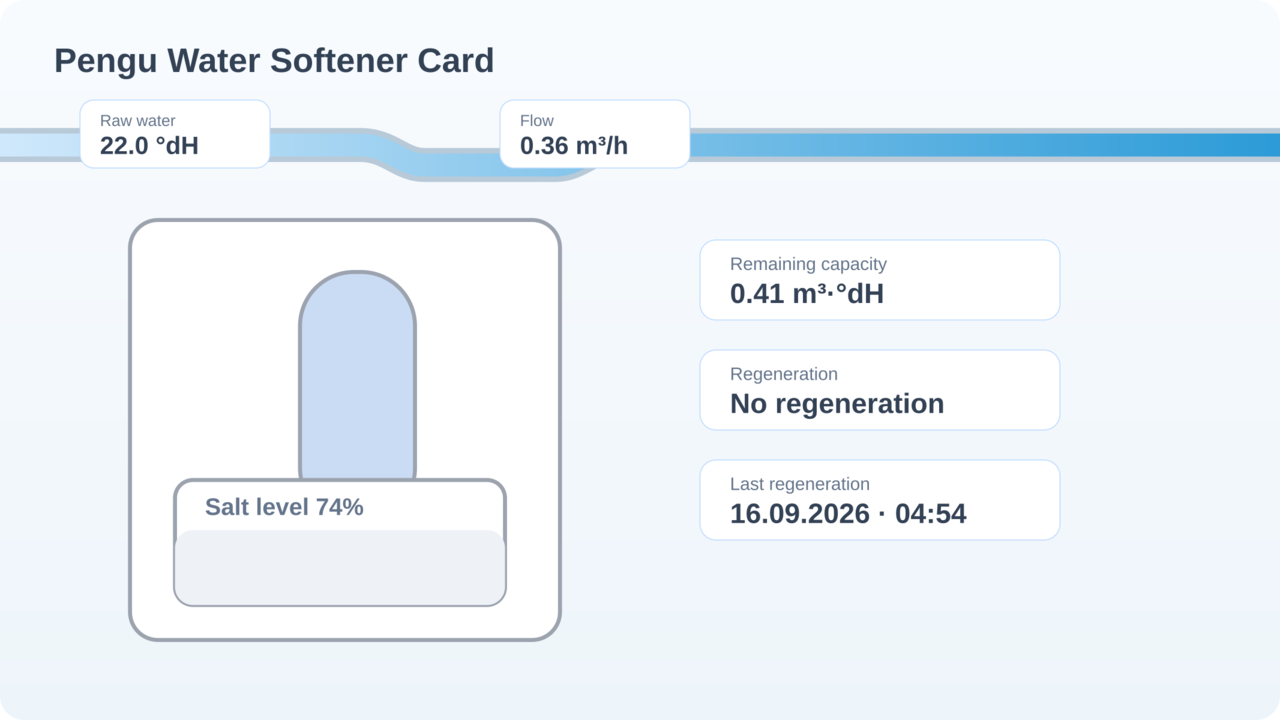
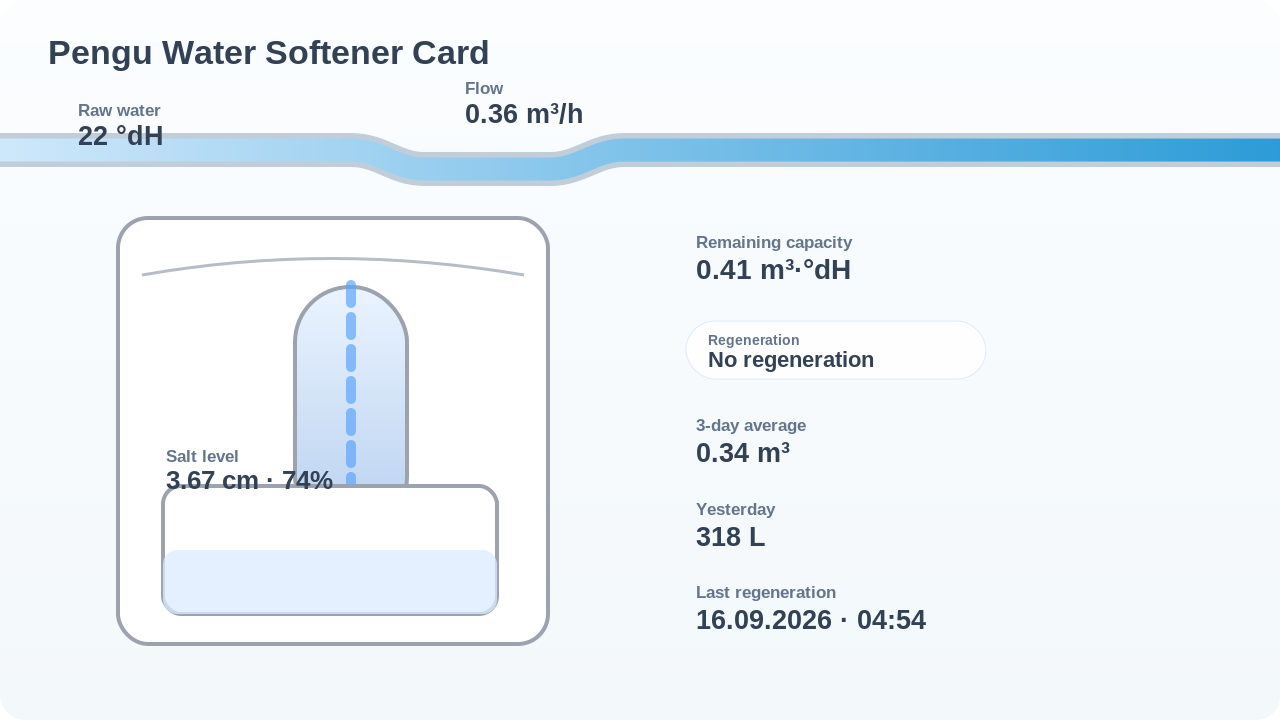
Add files via upload

diff --git a/dist/pengu-water-softener-card.js b/dist/pengu-water-softener-card.js
@@ -1,4 +1,4 @@
-const PENGU_WATER_VERSION = "0.1.1";
+const PENGU_WATER_VERSION = "0.1.2";
 
 const T = {
   en: {
@@ -24,6 +24,11 @@ const T = {
     style_modern: "Clean modern",
     style_technical: "Technical",
     style_compact: "Compact",
+    value_style: "Value display",
+    value_style_text: "Floating text",
+    value_style_compact: "Compact badge",
+    value_style_card: "Card",
+    value_style_hint: "Floating text uses only the space needed by the label and value. Compact badge adds a subtle background; Card keeps the classic boxed layout.",
     animation_mode: "Flow animation",
     animation_off: "Off",
     animation_subtle: "Subtle",
@@ -136,6 +141,11 @@ const T = {
     style_modern: "Modern",
     style_technical: "Technisch",
     style_compact: "Kompakt",
+    value_style: "Wertdarstellung",
+    value_style_text: "Schwebender Text",
+    value_style_compact: "Kompakt",
+    value_style_card: "Kachel",
+    value_style_hint: "Schwebender Text belegt nur den tatsächlich benötigten Platz. Kompakt ergänzt einen dezenten Hintergrund; Kachel behält die klassische Box-Darstellung.",
     animation_mode: "Durchflussanimation",
     animation_off: "Aus",
     animation_subtle: "Dezent",
@@ -367,6 +377,7 @@ function normalizeConfig(config = {}) {
     language: "auto",
     integration_profile: "auto",
     visual_style: "modern",
+    value_style: "text",
     animation_mode: "subtle",
     tap_action: "more-info",
     salt_level_mode: "auto",
@@ -539,7 +550,9 @@ function pill(config, hass, lang, def, customValue = null, tone = "blue") {
   const value = customValue ?? formatEntity(hass, entityId, lang);
   if (!value) return "";
   const label = getLabel(config, lang, key);
-  return `<div class="metric tone-${tone}" data-entity-id="${esc(entityId)}" style="left:${p.x}%;top:${p.y}%">
+  const valueStyle = ["text","compact","card"].includes(config.value_style) ? config.value_style : "text";
+  const statusClass = ["regeneration","last_error","manual_regeneration"].includes(key) ? " status-metric" : "";
+  return `<div class="metric value-${valueStyle} tone-${tone}${statusClass}" data-entity-id="${esc(entityId)}" style="left:${p.x}%;top:${p.y}%">
     <span class="metric-label">${esc(label)}</span><span class="metric-value">${esc(value)}</span>
   </div>`;
 }
@@ -554,10 +567,18 @@ function styles() {
     .canvas{position:relative;width:100%;aspect-ratio:10/7.2;min-height:360px;overflow:hidden;border-radius:16px;background:linear-gradient(180deg,rgba(248,250,252,.66),rgba(255,255,255,.1));}
     .diagram{position:absolute;inset:0;width:100%;height:100%}
     .overlay{position:absolute;inset:0;pointer-events:none}
-    .metric{position:absolute;transform:translate(-50%,-50%);display:flex;flex-direction:column;min-width:112px;max-width:210px;padding:7px 10px;border:1px solid rgba(148,163,184,.32);border-radius:11px;background:color-mix(in srgb,var(--card-background-color,#fff) 92%,transparent);box-shadow:0 3px 10px rgba(15,23,42,.08);backdrop-filter:blur(5px);pointer-events:auto;cursor:pointer;z-index:4}
-    .metric-label{font-size:.68rem;font-weight:650;color:var(--secondary-text-color,#64748b);white-space:nowrap;overflow:hidden;text-overflow:ellipsis}
-    .metric-value{font-size:.96rem;font-weight:760;line-height:1.28;white-space:nowrap;overflow:hidden;text-overflow:ellipsis}
-    .tone-blue{border-color:rgba(59,130,246,.26)} .tone-green{border-color:rgba(34,197,94,.32)} .tone-amber{border-color:rgba(245,158,11,.38)} .tone-red{border-color:rgba(239,68,68,.38)} .tone-gray{border-color:rgba(100,116,139,.32)}
+    .metric{position:absolute;transform:translate(-50%,-50%);display:flex;flex-direction:column;max-width:230px;pointer-events:auto;cursor:pointer;z-index:4;box-sizing:border-box}
+    .metric-label{font-size:.68rem;font-weight:650;color:var(--secondary-text-color,#64748b);white-space:nowrap;line-height:1.15}
+    .metric-value{font-size:.96rem;font-weight:760;line-height:1.24;white-space:nowrap;color:var(--primary-text-color,#334155)}
+    .value-text{padding:2px 3px;border:0;background:transparent;box-shadow:none;backdrop-filter:none}
+    .value-text .metric-label,.value-text .metric-value{text-shadow:0 1px 2px color-mix(in srgb,var(--card-background-color,#fff) 88%,transparent),0 0 5px color-mix(in srgb,var(--card-background-color,#fff) 70%,transparent)}
+    .value-compact{padding:5px 8px;border:1px solid rgba(148,163,184,.18);border-radius:8px;background:color-mix(in srgb,var(--card-background-color,#fff) 78%,transparent);box-shadow:0 2px 7px rgba(15,23,42,.045);backdrop-filter:blur(3px)}
+    .value-card{min-width:112px;padding:7px 10px;border:1px solid rgba(148,163,184,.32);border-radius:11px;background:color-mix(in srgb,var(--card-background-color,#fff) 92%,transparent);box-shadow:0 3px 10px rgba(15,23,42,.08);backdrop-filter:blur(5px)}
+    .value-text.status-metric{padding:4px 7px;border-radius:999px;background:color-mix(in srgb,var(--card-background-color,#fff) 72%,transparent);box-shadow:0 2px 7px rgba(15,23,42,.04);backdrop-filter:blur(3px)}
+    .value-text.status-metric .metric-label{font-size:.62rem}
+    .tone-red .metric-value{color:var(--error-color,#dc2626)}
+    .tone-amber .metric-value{color:#b45309}
+    .value-compact.tone-blue,.value-card.tone-blue{border-color:rgba(59,130,246,.24)} .value-compact.tone-green,.value-card.tone-green{border-color:rgba(34,197,94,.30)} .value-compact.tone-amber,.value-card.tone-amber{border-color:rgba(245,158,11,.34)} .value-compact.tone-red,.value-card.tone-red{border-color:rgba(239,68,68,.35)} .value-compact.tone-gray,.value-card.tone-gray{border-color:rgba(100,116,139,.28)}
     .tap-none .metric{cursor:default}
     .empty-note{position:absolute;left:50%;bottom:12px;transform:translateX(-50%);padding:7px 12px;border:1px dashed rgba(148,163,184,.5);border-radius:999px;background:rgba(255,255,255,.88);color:#64748b;font-size:.74rem;white-space:nowrap}
     .pipe{fill:none;stroke:#d7e3ef;stroke-width:22;stroke-linecap:round;stroke-linejoin:round}
@@ -587,9 +608,10 @@ function styles() {
     .status-ring-bg{fill:none;stroke:#e2e8f0;stroke-width:10}
     .status-ring{fill:none;stroke:#3b82f6;stroke-width:10;stroke-linecap:round;transform:rotate(-90deg);transform-origin:750px 446px}
     .style-technical .canvas{background:transparent;border:1px solid rgba(148,163,184,.28);border-radius:10px}
-    .style-technical .metric{border-radius:6px;box-shadow:none;background:var(--card-background-color,#fff)}
-    .style-compact .header{font-size:1rem;padding-top:10px}.style-compact .shell{padding:4px 7px 9px}.style-compact .canvas{min-height:310px}.style-compact .metric{padding:5px 8px;min-width:100px}.style-compact .metric-value{font-size:.86rem}.style-compact .metric-label{font-size:.61rem}
-    @media(max-width:520px){.canvas{min-height:420px;aspect-ratio:8/7.6}.metric{min-width:92px;max-width:150px;padding:6px 8px}.metric-label{font-size:.61rem}.metric-value{font-size:.82rem}}
+    .style-technical .value-card{border-radius:6px;box-shadow:none;background:var(--card-background-color,#fff)}
+    .style-technical .value-compact{border-radius:4px;box-shadow:none}
+    .style-compact .header{font-size:1rem;padding-top:10px}.style-compact .shell{padding:4px 7px 9px}.style-compact .canvas{min-height:310px}.style-compact .metric-value{font-size:.86rem}.style-compact .metric-label{font-size:.61rem}.style-compact .value-card{padding:5px 8px;min-width:100px}.style-compact .value-compact{padding:4px 6px}
+    @media(max-width:520px){.canvas{min-height:420px;aspect-ratio:8/7.6}.metric{max-width:160px}.value-card{min-width:92px;padding:6px 8px}.value-compact{padding:4px 6px}.metric-label{font-size:.61rem}.metric-value{font-size:.82rem}}
   `;
 }
 
@@ -696,7 +718,7 @@ class PenguWaterSoftenerCard extends HTMLElement {
   }
   static getConfigElement() { return document.createElement("pengu-water-softener-card-editor"); }
   static getStubConfig() {
-    return { language:"auto", integration_profile:"auto", visual_style:"modern", animation_mode:"subtle", tap_action:"more-info" };
+    return { language:"auto", integration_profile:"auto", visual_style:"modern", value_style:"text", animation_mode:"subtle", tap_action:"more-info" };
   }
   setConfig(config) { if (!config) throw new Error("Invalid configuration"); this._config = normalizeConfig(config); this._render(); }
   set hass(hass) { this._hass = hass; this._render(); }
@@ -748,6 +770,7 @@ class PenguWaterSoftenerCardEditor extends HTMLElement {
 
       <div class="panel"><div class="panel-title">${esc(tr(lang,"appearance"))}</div><div class="grid">
         <div class="field"><label>${esc(tr(lang,"visual_style"))}</label><select data-key="visual_style"><option value="modern" ${this._config.visual_style==="modern"?"selected":""}>${esc(tr(lang,"style_modern"))}</option><option value="technical" ${this._config.visual_style==="technical"?"selected":""}>${esc(tr(lang,"style_technical"))}</option><option value="compact" ${this._config.visual_style==="compact"?"selected":""}>${esc(tr(lang,"style_compact"))}</option></select></div>
+        <div class="field"><label>${esc(tr(lang,"value_style"))}</label><select data-key="value_style"><option value="text" ${this._config.value_style==="text"?"selected":""}>${esc(tr(lang,"value_style_text"))}</option><option value="compact" ${this._config.value_style==="compact"?"selected":""}>${esc(tr(lang,"value_style_compact"))}</option><option value="card" ${this._config.value_style==="card"?"selected":""}>${esc(tr(lang,"value_style_card"))}</option></select><div class="mini-hint">${esc(tr(lang,"value_style_hint"))}</div></div>
         <div class="field"><label>${esc(tr(lang,"animation_mode"))}</label><select data-key="animation_mode"><option value="off" ${this._config.animation_mode==="off"?"selected":""}>${esc(tr(lang,"animation_off"))}</option><option value="subtle" ${this._config.animation_mode==="subtle"?"selected":""}>${esc(tr(lang,"animation_subtle"))}</option><option value="normal" ${this._config.animation_mode==="normal"?"selected":""}>${esc(tr(lang,"animation_normal"))}</option></select></div>
         <div class="field"><label>${esc(tr(lang,"tap_action"))}</label><select data-key="tap_action"><option value="more-info" ${this._config.tap_action!=="none"?"selected":""}>${esc(tr(lang,"tap_more_info"))}</option><option value="none" ${this._config.tap_action==="none"?"selected":""}>${esc(tr(lang,"tap_none"))}</option></select></div>
       </div></div>
@@ -810,7 +833,7 @@ class PenguWaterSoftenerCardEditor extends HTMLElement {
     // the picker while its value-changed event is still being handled can cause
     // Home Assistant to restore the previous value. Only refresh the drag area.
     if (key.endsWith("_entity")) this._refreshPositions();
-    else if(["language","integration_profile","visual_style","salt_level_mode","salt_level_max_unit"].includes(key)) this._render();
+    else if(["language","integration_profile","visual_style","value_style","salt_level_mode","salt_level_max_unit"].includes(key)) this._render();
   }
   _refreshPositions(){
     const canvas=this.shadowRoot?.getElementById("positionCanvas");
@@ -847,7 +870,7 @@ if (!window.customCards.some((c)=>c.type==="pengu-water-softener-card")) {
     type:"pengu-water-softener-card",
     name:"Pengu Water Softener Card",
     preview:true,
-    description:"Visual water-softener card with flow, hardness, salt level, capacity and regeneration animation.",
+    description:"Visual water-softener card with floating values, flow, hardness, salt level, capacity and regeneration animation.",
     documentationURL:"https://github.com/Borderlane-HA/Pengu-Water-Softener-Home-Assistant-Card",
     getEntitySuggestion:(hass,entityId)=>{
       const s=hass?.states?.[entityId]; if(!s)return null;

diff --git a/pengu-water-softener-card.js b/pengu-water-softener-card.js
@@ -1,4 +1,4 @@
-const PENGU_WATER_VERSION = "0.1.1";
+const PENGU_WATER_VERSION = "0.1.2";
 
 const T = {
   en: {
@@ -24,6 +24,11 @@ const T = {
     style_modern: "Clean modern",
     style_technical: "Technical",
     style_compact: "Compact",
+    value_style: "Value display",
+    value_style_text: "Floating text",
+    value_style_compact: "Compact badge",
+    value_style_card: "Card",
+    value_style_hint: "Floating text uses only the space needed by the label and value. Compact badge adds a subtle background; Card keeps the classic boxed layout.",
     animation_mode: "Flow animation",
     animation_off: "Off",
     animation_subtle: "Subtle",
@@ -136,6 +141,11 @@ const T = {
     style_modern: "Modern",
     style_technical: "Technisch",
     style_compact: "Kompakt",
+    value_style: "Wertdarstellung",
+    value_style_text: "Schwebender Text",
+    value_style_compact: "Kompakt",
+    value_style_card: "Kachel",
+    value_style_hint: "Schwebender Text belegt nur den tatsächlich benötigten Platz. Kompakt ergänzt einen dezenten Hintergrund; Kachel behält die klassische Box-Darstellung.",
     animation_mode: "Durchflussanimation",
     animation_off: "Aus",
     animation_subtle: "Dezent",
@@ -367,6 +377,7 @@ function normalizeConfig(config = {}) {
     language: "auto",
     integration_profile: "auto",
     visual_style: "modern",
+    value_style: "text",
     animation_mode: "subtle",
     tap_action: "more-info",
     salt_level_mode: "auto",
@@ -539,7 +550,9 @@ function pill(config, hass, lang, def, customValue = null, tone = "blue") {
   const value = customValue ?? formatEntity(hass, entityId, lang);
   if (!value) return "";
   const label = getLabel(config, lang, key);
-  return `<div class="metric tone-${tone}" data-entity-id="${esc(entityId)}" style="left:${p.x}%;top:${p.y}%">
+  const valueStyle = ["text","compact","card"].includes(config.value_style) ? config.value_style : "text";
+  const statusClass = ["regeneration","last_error","manual_regeneration"].includes(key) ? " status-metric" : "";
+  return `<div class="metric value-${valueStyle} tone-${tone}${statusClass}" data-entity-id="${esc(entityId)}" style="left:${p.x}%;top:${p.y}%">
     <span class="metric-label">${esc(label)}</span><span class="metric-value">${esc(value)}</span>
   </div>`;
 }
@@ -554,10 +567,18 @@ function styles() {
     .canvas{position:relative;width:100%;aspect-ratio:10/7.2;min-height:360px;overflow:hidden;border-radius:16px;background:linear-gradient(180deg,rgba(248,250,252,.66),rgba(255,255,255,.1));}
     .diagram{position:absolute;inset:0;width:100%;height:100%}
     .overlay{position:absolute;inset:0;pointer-events:none}
-    .metric{position:absolute;transform:translate(-50%,-50%);display:flex;flex-direction:column;min-width:112px;max-width:210px;padding:7px 10px;border:1px solid rgba(148,163,184,.32);border-radius:11px;background:color-mix(in srgb,var(--card-background-color,#fff) 92%,transparent);box-shadow:0 3px 10px rgba(15,23,42,.08);backdrop-filter:blur(5px);pointer-events:auto;cursor:pointer;z-index:4}
-    .metric-label{font-size:.68rem;font-weight:650;color:var(--secondary-text-color,#64748b);white-space:nowrap;overflow:hidden;text-overflow:ellipsis}
-    .metric-value{font-size:.96rem;font-weight:760;line-height:1.28;white-space:nowrap;overflow:hidden;text-overflow:ellipsis}
-    .tone-blue{border-color:rgba(59,130,246,.26)} .tone-green{border-color:rgba(34,197,94,.32)} .tone-amber{border-color:rgba(245,158,11,.38)} .tone-red{border-color:rgba(239,68,68,.38)} .tone-gray{border-color:rgba(100,116,139,.32)}
+    .metric{position:absolute;transform:translate(-50%,-50%);display:flex;flex-direction:column;max-width:230px;pointer-events:auto;cursor:pointer;z-index:4;box-sizing:border-box}
+    .metric-label{font-size:.68rem;font-weight:650;color:var(--secondary-text-color,#64748b);white-space:nowrap;line-height:1.15}
+    .metric-value{font-size:.96rem;font-weight:760;line-height:1.24;white-space:nowrap;color:var(--primary-text-color,#334155)}
+    .value-text{padding:2px 3px;border:0;background:transparent;box-shadow:none;backdrop-filter:none}
+    .value-text .metric-label,.value-text .metric-value{text-shadow:0 1px 2px color-mix(in srgb,var(--card-background-color,#fff) 88%,transparent),0 0 5px color-mix(in srgb,var(--card-background-color,#fff) 70%,transparent)}
+    .value-compact{padding:5px 8px;border:1px solid rgba(148,163,184,.18);border-radius:8px;background:color-mix(in srgb,var(--card-background-color,#fff) 78%,transparent);box-shadow:0 2px 7px rgba(15,23,42,.045);backdrop-filter:blur(3px)}
+    .value-card{min-width:112px;padding:7px 10px;border:1px solid rgba(148,163,184,.32);border-radius:11px;background:color-mix(in srgb,var(--card-background-color,#fff) 92%,transparent);box-shadow:0 3px 10px rgba(15,23,42,.08);backdrop-filter:blur(5px)}
+    .value-text.status-metric{padding:4px 7px;border-radius:999px;background:color-mix(in srgb,var(--card-background-color,#fff) 72%,transparent);box-shadow:0 2px 7px rgba(15,23,42,.04);backdrop-filter:blur(3px)}
+    .value-text.status-metric .metric-label{font-size:.62rem}
+    .tone-red .metric-value{color:var(--error-color,#dc2626)}
+    .tone-amber .metric-value{color:#b45309}
+    .value-compact.tone-blue,.value-card.tone-blue{border-color:rgba(59,130,246,.24)} .value-compact.tone-green,.value-card.tone-green{border-color:rgba(34,197,94,.30)} .value-compact.tone-amber,.value-card.tone-amber{border-color:rgba(245,158,11,.34)} .value-compact.tone-red,.value-card.tone-red{border-color:rgba(239,68,68,.35)} .value-compact.tone-gray,.value-card.tone-gray{border-color:rgba(100,116,139,.28)}
     .tap-none .metric{cursor:default}
     .empty-note{position:absolute;left:50%;bottom:12px;transform:translateX(-50%);padding:7px 12px;border:1px dashed rgba(148,163,184,.5);border-radius:999px;background:rgba(255,255,255,.88);color:#64748b;font-size:.74rem;white-space:nowrap}
     .pipe{fill:none;stroke:#d7e3ef;stroke-width:22;stroke-linecap:round;stroke-linejoin:round}
@@ -587,9 +608,10 @@ function styles() {
     .status-ring-bg{fill:none;stroke:#e2e8f0;stroke-width:10}
     .status-ring{fill:none;stroke:#3b82f6;stroke-width:10;stroke-linecap:round;transform:rotate(-90deg);transform-origin:750px 446px}
     .style-technical .canvas{background:transparent;border:1px solid rgba(148,163,184,.28);border-radius:10px}
-    .style-technical .metric{border-radius:6px;box-shadow:none;background:var(--card-background-color,#fff)}
-    .style-compact .header{font-size:1rem;padding-top:10px}.style-compact .shell{padding:4px 7px 9px}.style-compact .canvas{min-height:310px}.style-compact .metric{padding:5px 8px;min-width:100px}.style-compact .metric-value{font-size:.86rem}.style-compact .metric-label{font-size:.61rem}
-    @media(max-width:520px){.canvas{min-height:420px;aspect-ratio:8/7.6}.metric{min-width:92px;max-width:150px;padding:6px 8px}.metric-label{font-size:.61rem}.metric-value{font-size:.82rem}}
+    .style-technical .value-card{border-radius:6px;box-shadow:none;background:var(--card-background-color,#fff)}
+    .style-technical .value-compact{border-radius:4px;box-shadow:none}
+    .style-compact .header{font-size:1rem;padding-top:10px}.style-compact .shell{padding:4px 7px 9px}.style-compact .canvas{min-height:310px}.style-compact .metric-value{font-size:.86rem}.style-compact .metric-label{font-size:.61rem}.style-compact .value-card{padding:5px 8px;min-width:100px}.style-compact .value-compact{padding:4px 6px}
+    @media(max-width:520px){.canvas{min-height:420px;aspect-ratio:8/7.6}.metric{max-width:160px}.value-card{min-width:92px;padding:6px 8px}.value-compact{padding:4px 6px}.metric-label{font-size:.61rem}.metric-value{font-size:.82rem}}
   `;
 }
 
@@ -696,7 +718,7 @@ class PenguWaterSoftenerCard extends HTMLElement {
   }
   static getConfigElement() { return document.createElement("pengu-water-softener-card-editor"); }
   static getStubConfig() {
-    return { language:"auto", integration_profile:"auto", visual_style:"modern", animation_mode:"subtle", tap_action:"more-info" };
+    return { language:"auto", integration_profile:"auto", visual_style:"modern", value_style:"text", animation_mode:"subtle", tap_action:"more-info" };
   }
   setConfig(config) { if (!config) throw new Error("Invalid configuration"); this._config = normalizeConfig(config); this._render(); }
   set hass(hass) { this._hass = hass; this._render(); }
@@ -748,6 +770,7 @@ class PenguWaterSoftenerCardEditor extends HTMLElement {
 
       <div class="panel"><div class="panel-title">${esc(tr(lang,"appearance"))}</div><div class="grid">
         <div class="field"><label>${esc(tr(lang,"visual_style"))}</label><select data-key="visual_style"><option value="modern" ${this._config.visual_style==="modern"?"selected":""}>${esc(tr(lang,"style_modern"))}</option><option value="technical" ${this._config.visual_style==="technical"?"selected":""}>${esc(tr(lang,"style_technical"))}</option><option value="compact" ${this._config.visual_style==="compact"?"selected":""}>${esc(tr(lang,"style_compact"))}</option></select></div>
+        <div class="field"><label>${esc(tr(lang,"value_style"))}</label><select data-key="value_style"><option value="text" ${this._config.value_style==="text"?"selected":""}>${esc(tr(lang,"value_style_text"))}</option><option value="compact" ${this._config.value_style==="compact"?"selected":""}>${esc(tr(lang,"value_style_compact"))}</option><option value="card" ${this._config.value_style==="card"?"selected":""}>${esc(tr(lang,"value_style_card"))}</option></select><div class="mini-hint">${esc(tr(lang,"value_style_hint"))}</div></div>
         <div class="field"><label>${esc(tr(lang,"animation_mode"))}</label><select data-key="animation_mode"><option value="off" ${this._config.animation_mode==="off"?"selected":""}>${esc(tr(lang,"animation_off"))}</option><option value="subtle" ${this._config.animation_mode==="subtle"?"selected":""}>${esc(tr(lang,"animation_subtle"))}</option><option value="normal" ${this._config.animation_mode==="normal"?"selected":""}>${esc(tr(lang,"animation_normal"))}</option></select></div>
         <div class="field"><label>${esc(tr(lang,"tap_action"))}</label><select data-key="tap_action"><option value="more-info" ${this._config.tap_action!=="none"?"selected":""}>${esc(tr(lang,"tap_more_info"))}</option><option value="none" ${this._config.tap_action==="none"?"selected":""}>${esc(tr(lang,"tap_none"))}</option></select></div>
       </div></div>
@@ -810,7 +833,7 @@ class PenguWaterSoftenerCardEditor extends HTMLElement {
     // the picker while its value-changed event is still being handled can cause
     // Home Assistant to restore the previous value. Only refresh the drag area.
     if (key.endsWith("_entity")) this._refreshPositions();
-    else if(["language","integration_profile","visual_style","salt_level_mode","salt_level_max_unit"].includes(key)) this._render();
+    else if(["language","integration_profile","visual_style","value_style","salt_level_mode","salt_level_max_unit"].includes(key)) this._render();
   }
   _refreshPositions(){
     const canvas=this.shadowRoot?.getElementById("positionCanvas");
@@ -847,7 +870,7 @@ if (!window.customCards.some((c)=>c.type==="pengu-water-softener-card")) {
     type:"pengu-water-softener-card",
     name:"Pengu Water Softener Card",
     preview:true,
-    description:"Visual water-softener card with flow, hardness, salt level, capacity and regeneration animation.",
+    description:"Visual water-softener card with floating values, flow, hardness, salt level, capacity and regeneration animation.",
     documentationURL:"https://github.com/Borderlane-HA/Pengu-Water-Softener-Home-Assistant-Card",
     getEntitySuggestion:(hass,entityId)=>{
       const s=hass?.states?.[entityId]; if(!s)return null;

diff --git a/README.md b/README.md
@@ -1,16 +1,10 @@
 # Pengu Water Softener Card
 
-<p align="center">
-  <img src="https://raw.githubusercontent.com/Borderlane-HA/Pengu-Water-Softener-Home-Assistant-Card/main/assets/pengu-logo.png" alt="Pengu Water Softener Card" width="420">
-</p>
+![Pengu Water Softener Card](https://raw.githubusercontent.com/Borderlane-HA/Pengu-Water-Softener-Home-Assistant-Card/refs/heads/main/assets/pengu-logo.png)
 
 A stylish and configurable **Home Assistant dashboard card for water softeners**. It shows only the values you actually configure, supports animated flow and regeneration states, and lets you position values directly in the visual editor via drag & drop.
 
-<p align="center">
-  <img src="https://raw.githubusercontent.com/Borderlane-HA/Pengu-Water-Softener-Home-Assistant-Card/main/screenshots/preview.png" alt="Pengu Water Softener Card preview" width="900">
-</p>
-
-> **Current version:** 0.1.1
+![Pengu Water Softener Card preview](https://raw.githubusercontent.com/Borderlane-HA/Pengu-Water-Softener-Home-Assistant-Card/refs/heads/main/screenshots/preview.png)
 
 ## Highlights
 
@@ -31,6 +25,22 @@ A stylish and configurable **Home Assistant dashboard card for water softeners**
 - German / English automatically follows the Home Assistant language
 - More-info dialog on configured values
 
+## Value display modes
+
+The value overlays can be changed in the visual editor:
+
+- **Floating text** — default; no box, no fixed minimum width, best for free positioning around the schematic
+- **Compact badge** — subtle translucent background with very small padding
+- **Card** — classic boxed layout from the first releases
+
+Normal measurements use floating text by default. Status values such as regeneration and errors keep a small, subtle status background so they remain easy to recognize.
+
+Existing configurations from older versions automatically use the new **Floating text** mode unless `value_style` is explicitly set.
+
+```yaml
+value_style: text     # text | compact | card
+```
+
 ## Integration profiles
 
 ### Automatic / generic
@@ -39,11 +49,9 @@ Works with any Home Assistant integration that exposes water-softener values as 
 
 ### Grünbeck softliQ SC — `tizianodeg/gruenbeck_softliQ_SC`
 
-The dedicated Grünbeck profile is optimized for the local Home Assistant integration:
+The dedicated Grünbeck profile is optimized for the [tizianodeg/gruenbeck_softliQ_SC Home Assistant integration](https://github.com/tizianodeg/gruenbeck_softliQ_SC).
 
-https://github.com/tizianodeg/gruenbeck_softliQ_SC
-
-The profile recognizes the common softliQ SC entities and regeneration states and can **auto-assign detected Grünbeck entities** from the card editor. Detection happens entirely from the entities already present in Home Assistant; the card does not create additional requests to the water softener.
+The profile recognizes common softliQ SC entities and regeneration states and can **auto-assign detected Grünbeck entities** from the card editor. Detection happens entirely from the entities already present in Home Assistant; the card does not create additional requests to the water softener.
 
 Typical supported values include:
 
@@ -120,6 +128,7 @@ type: custom:pengu-water-softener-card
 title: Enthärtungsanlage
 language: auto
 integration_profile: gruenbeck_softliq
+value_style: text
 flow_entity: sensor.softliq_sc18_aktueller_durchfluss
 raw_hardness_entity: sensor.softliq_sc18_rohwasserharte
 remaining_capacity_entity: sensor.softliq_sc18_restkapazitat
@@ -134,11 +143,11 @@ When **Grünbeck softliQ SC (tizianodeg)** is selected as the integration profil
 
 It scans the Home Assistant entities already loaded in the browser and fills matching empty fields. Existing manual assignments are never overwritten. After auto-assignment, remove any values you do not want to display and position the remaining values with drag & drop.
 
-## Entity picker fix in 0.1.1
+## Entity picker handling
 
-Version 0.1.1 changes the editor so selecting an entity no longer rebuilds the complete editor while Home Assistant is still processing the picker event. It also ignores empty fallback `change` events that could otherwise clear a value immediately after selection.
+Entity selection is unit-agnostic. Sensors using units such as `m³/h`, `m3/h`, `°dH`, `%`, `m³`, `L`, `d`, `h` and text-state sensors can be assigned normally.
 
-This applies to **all entity fields**, including flow sensors using units such as `m³/h` / `m3/h`, hardness sensors such as `°dH`, selectors and buttons.
+The editor avoids rebuilding an entity picker while Home Assistant is processing its selection event, preventing selected entities from immediately disappearing again.
 
 ## Salt / fill-level handling
 
@@ -188,6 +197,12 @@ pos_remaining_capacity_y: 37
 ```
 
 Use **Reset value positions** to restore the defaults.
+
+## HACS README images
+
+The README intentionally uses plain Markdown image syntax and absolute HTTPS URLs to PNG files in the repository. This avoids relying on HTML `<picture>` or advanced markup that HACS may render differently from GitHub.
+
+If HACS still shows an older README immediately after a release, refresh the repository information after the new GitHub release/tag is available; HACS can temporarily display cached release metadata.
 
 ## Repository
 

diff --git a/CHANGELOG.md b/CHANGELOG.md
@@ -1,5 +1,19 @@
 # Changelog
 
+## 0.1.2
+
+- Added three value display modes: **Floating text**, **Compact badge**, and **Card**.
+- Changed the default value display to **Floating text** to reduce visual clutter and make drag-and-drop positioning more precise.
+- Removed fixed minimum widths, borders, shadows and backgrounds from normal values in Floating text mode.
+- Kept regeneration/error controls as subtle status pills in Floating text mode for better state recognition.
+- Preserved the classic boxed layout as the optional `value_style: card` mode.
+- Added `value_style: compact` for a lightweight translucent alternative.
+- Updated responsive styling for the new value modes.
+- Rebuilt the project banner specifically for **Pengu Water Softener Card** (the previous PNG still contained Pengu Heat Card artwork).
+- Rebuilt the README preview to show the new floating-value layout.
+- Changed README images from HTML `<img>` blocks to plain Markdown images with absolute HTTPS PNG URLs for better HACS compatibility.
+- Removed the hard-coded current-version line from the README to avoid stale version text in HACS caches.
+
 ## 0.1.1
 
 - Fixed entity selections not being retained in the visual editor.
